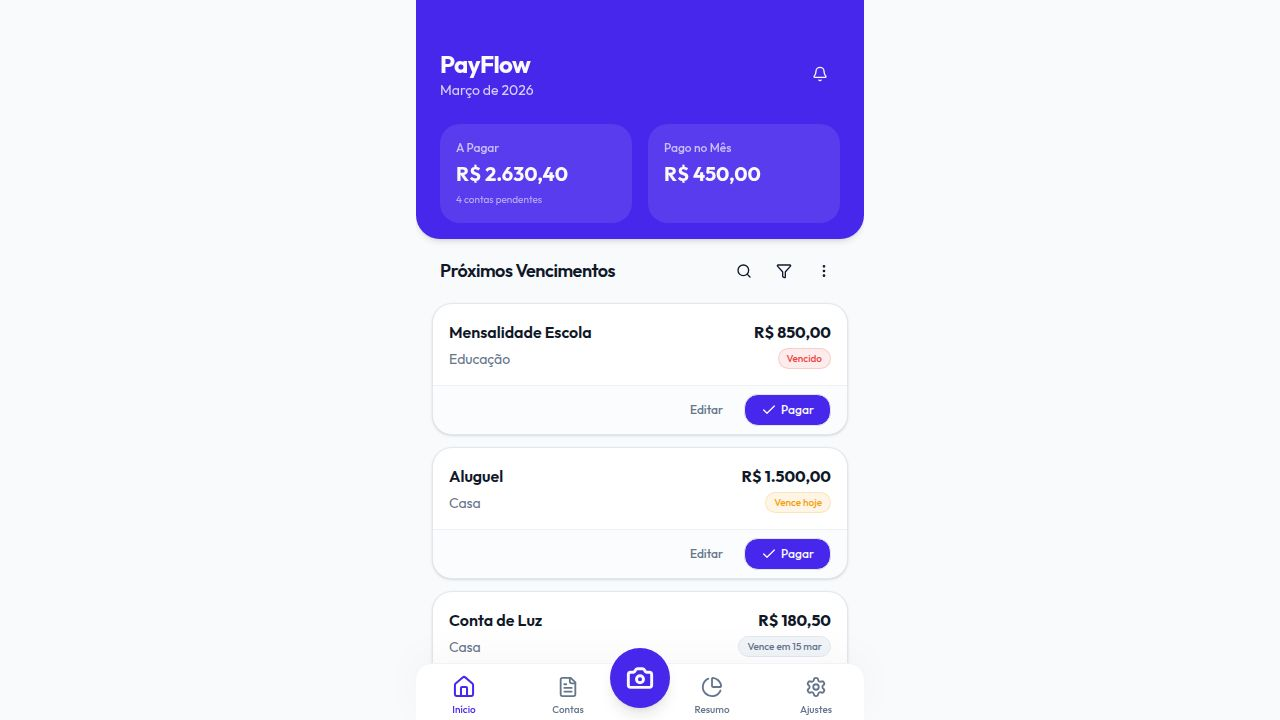
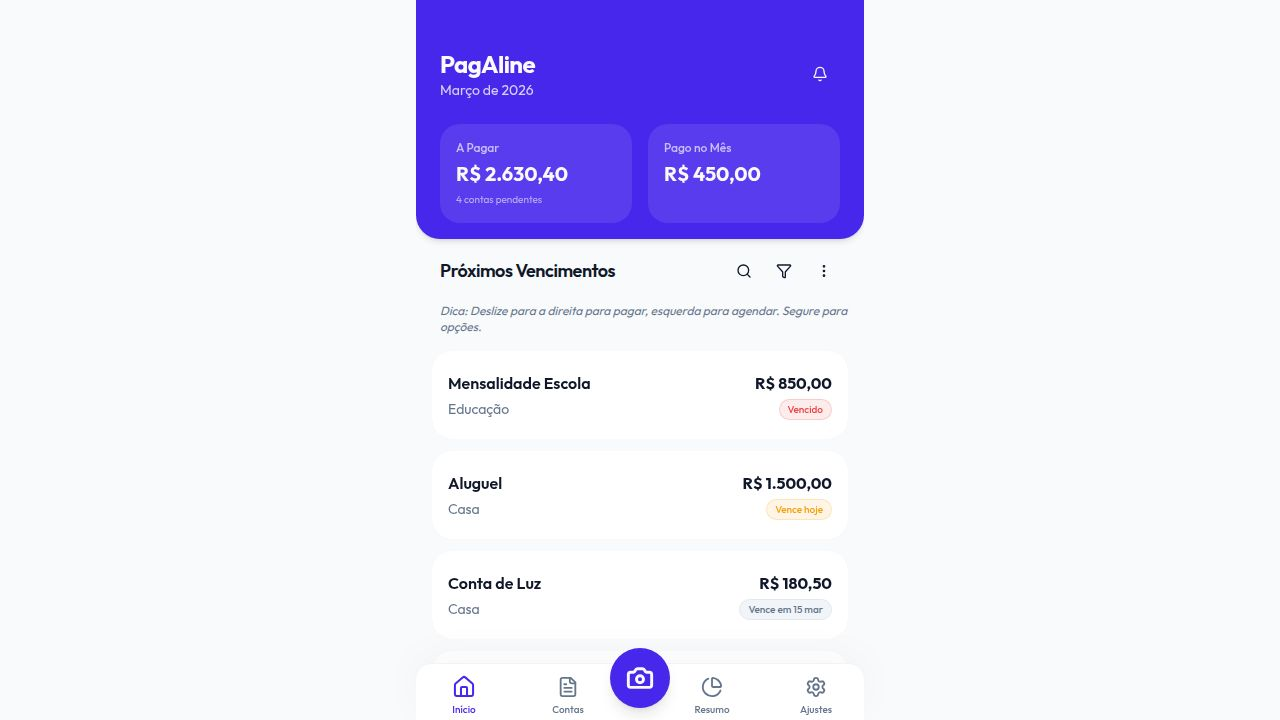
Add swipe gesture controls to the bills tab for easy management
Implement swipe-to-pay, swipe-to-schedule, and long-press for options functionality on the Bills tab, mirroring the home screen interactions.

Replit-Commit-Author: Agent
Replit-Commit-Session-Id: a7da171f-6661-4990-a457-7a83e7bc03da
Replit-Commit-Checkpoint-Type: full_checkpoint
Replit-Commit-Event-Id: 95634dd1-bc4b-4ab2-b35a-d443c6b9b4f6
Replit-Commit-Screenshot-Url: https://storage.googleapis.com/screenshot-production-us-central1/e67c398b-fc92-4870-afe2-380efe06a755/a7da171f-6661-4990-a457-7a83e7bc03da/GnGrj85
Replit-Helium-Checkpoint-Created: true

diff --git a/client/src/pages/Bills.tsx b/client/src/pages/Bills.tsx
@@ -1,18 +1,165 @@
-import { useState } from "react";
+import { useState, useRef } from "react";
 import { useStore, Bill } from "@/lib/store";
-import { format, isSameMonth, parseISO } from "date-fns";
+import { format, isSameMonth, isPast, isToday, isTomorrow } from "date-fns";
 import { ptBR } from "date-fns/locale";
 import { Card, CardContent } from "@/components/ui/card";
 import { Button } from "@/components/ui/button";
 import { Badge } from "@/components/ui/badge";
 import { Tabs, TabsContent, TabsList, TabsTrigger } from "@/components/ui/tabs";
-import { ChevronLeft, ChevronRight, Filter, Search } from "lucide-react";
+import { ChevronLeft, ChevronRight, Filter, Search, CheckCircle2, Calendar as CalendarIcon, Edit, Trash } from "lucide-react";
 import { cn } from "@/lib/utils";
+import { motion, useAnimation, PanInfo } from "framer-motion";
+import { useToast } from "@/hooks/use-toast";
+import { Drawer, DrawerContent, DrawerHeader, DrawerTitle, DrawerDescription, DrawerClose } from "@/components/ui/drawer";
+
+// Reusing the same formatter
+const formatCurrency = (value: number) => {
+  return new Intl.NumberFormat('pt-BR', { style: 'currency', currency: 'BRL' }).format(value);
+};
+
+const getDueDateLabel = (date: Date, status: string) => {
+  if (status === 'paid') return 'Pago';
+  if (isPast(date) && !isToday(date)) return 'Vencido';
+  if (isToday(date)) return 'Vence hoje';
+  if (isTomorrow(date)) return 'Vence amanhã';
+  return `Vence em ${format(date, "dd MMM", { locale: ptBR })}`;
+};
+
+function BillItemWithSwipe({ 
+  bill, 
+  onPay, 
+  onSchedule, 
+  onLongPress 
+}: { 
+  bill: Bill;
+  onPay: (id: string) => void;
+  onSchedule: (bill: Bill) => void;
+  onLongPress: (bill: Bill) => void;
+}) {
+  const controls = useAnimation();
+  const timerRef = useRef<NodeJS.Timeout | null>(null);
+  const [dragOffset, setDragOffset] = useState(0);
+
+  const handleTouchStart = () => {
+    timerRef.current = setTimeout(() => {
+      onLongPress(bill);
+    }, 2000);
+  };
+
+  const handleTouchEnd = () => {
+    if (timerRef.current) clearTimeout(timerRef.current);
+  };
+
+  const handleDragStart = () => {
+    if (timerRef.current) clearTimeout(timerRef.current);
+  };
+
+  const handleDrag = (e: any, info: PanInfo) => {
+    setDragOffset(info.offset.x);
+  };
+
+  const handleDragEnd = async (e: any, info: PanInfo) => {
+    const threshold = 100;
+    const velocity = info.velocity.x;
+    setDragOffset(0);
+    
+    if (info.offset.x > threshold || (info.offset.x > 30 && velocity > 500)) {
+      if (bill.status !== 'paid') {
+        controls.start({ x: 500, transition: { duration: 0.2 } }).then(() => {
+          onPay(bill.id);
+          controls.set({ x: 0 });
+        });
+      } else {
+        controls.start({ x: 0, transition: { type: "spring", stiffness: 300, damping: 25 } });
+      }
+    } else if (info.offset.x < -threshold || (info.offset.x < -30 && velocity < -500)) {
+      if (bill.status !== 'paid') {
+        onSchedule(bill);
+        controls.start({ x: 0, transition: { type: "spring", stiffness: 300, damping: 25 } });
+      } else {
+        controls.start({ x: 0, transition: { type: "spring", stiffness: 300, damping: 25 } });
+      }
+    } else {
+      controls.start({ x: 0, transition: { type: "spring", stiffness: 300, damping: 25 } });
+    }
+  };
+
+  const getStatusBadge = (bill: Bill) => {
+    if (bill.status === 'paid') {
+      return <Badge variant="outline" className="text-success border-success/30 bg-success/10">Pago</Badge>;
+    }
+    if (bill.status === 'overdue') {
+      return <Badge variant="outline" className="text-destructive border-destructive/30 bg-destructive/10">Vencido</Badge>;
+    }
+    return <Badge variant="outline" className="text-warning border-warning/30 bg-warning/10">Pendente</Badge>;
+  };
+
+  return (
+    <div className="relative rounded-xl overflow-hidden bg-muted mb-3">
+      {/* Background actions (Swipe) - Only show if not paid */}
+      {bill.status !== 'paid' && (
+        <div className="absolute inset-0 flex justify-between items-center px-6">
+          <div className={cn("flex items-center gap-2 font-medium transition-opacity", dragOffset > 40 ? "text-success opacity-100" : "text-muted-foreground opacity-50")}>
+            <CheckCircle2 size={22} />
+            <span className="text-sm">Pagar</span>
+          </div>
+          <div className={cn("flex items-center gap-2 font-medium transition-opacity", dragOffset < -40 ? "text-primary opacity-100" : "text-muted-foreground opacity-50")}>
+            <span className="text-sm">Agendar</span>
+            <CalendarIcon size={22} />
+          </div>
+        </div>
+      )}
+      
+      <motion.div
+        drag={bill.status !== 'paid' ? "x" : false}
+        dragConstraints={{ left: 0, right: 0 }}
+        dragElastic={0.4}
+        onDragStart={handleDragStart}
+        onDrag={handleDrag}
+        onDragEnd={handleDragEnd}
+        animate={controls}
+        onTouchStart={handleTouchStart}
+        onTouchEnd={handleTouchEnd}
+        onTouchCancel={handleTouchEnd}
+        onMouseDown={handleTouchStart}
+        onMouseUp={handleTouchEnd}
+        onMouseLeave={handleTouchEnd}
+        className="relative z-10 touch-pan-y"
+        whileTap={{ scale: 0.98 }}
+      >
+        <Card className="overflow-hidden border-0 shadow-sm">
+          <CardContent className="p-4 flex items-center justify-between">
+            <div className="flex-1 min-w-0 pr-4">
+              <h3 className="font-semibold text-base truncate mb-1">{bill.description}</h3>
+              <div className="flex items-center gap-2 text-xs text-muted-foreground">
+                <span>{bill.category}</span>
+                <span>•</span>
+                <span>Venc: {format(bill.dueDate, "dd/MM", { locale: ptBR })}</span>
+              </div>
+            </div>
+            <div className="flex flex-col items-end gap-2 shrink-0">
+              <span className="font-bold text-base">{formatCurrency(bill.amount)}</span>
+              {getStatusBadge(bill)}
+            </div>
+          </CardContent>
+        </Card>
+      </motion.div>
+    </div>
+  );
+}
 
 export default function Bills() {
   const bills = useStore((state) => state.bills);
+  const markAsPaid = useStore((state) => state.markAsPaid);
+  const deleteBill = useStore((state) => state.deleteBill);
+  const { toast } = useToast();
+  
   const [currentMonth, setCurrentMonth] = useState(new Date());
   const [activeTab, setActiveTab] = useState("all");
+  
+  // Drawer states
+  const [activeBill, setActiveBill] = useState<Bill | null>(null);
+  const [drawerType, setDrawerType] = useState<'schedule' | 'options' | null>(null);
 
   const prevMonth = () => {
     setCurrentMonth(new Date(currentMonth.getFullYear(), currentMonth.getMonth() - 1, 1));
@@ -35,18 +182,38 @@ export default function Bills() {
     return true;
   }).sort((a, b) => a.dueDate.getTime() - b.dueDate.getTime());
 
-  const formatCurrency = (value: number) => {
-    return new Intl.NumberFormat('pt-BR', { style: 'currency', currency: 'BRL' }).format(value);
+  const handlePaySingle = (id: string) => {
+    markAsPaid(id);
+    toast({
+      title: "Conta paga",
+      description: "A conta foi marcada como paga e atualizada no histórico.",
+    });
   };
 
-  const getStatusBadge = (bill: Bill) => {
-    if (bill.status === 'paid') {
-      return <Badge variant="outline" className="text-success border-success/30 bg-success/10">Pago</Badge>;
+  const handleSchedule = (bill: Bill) => {
+    setActiveBill(bill);
+    setDrawerType('schedule');
+  };
+
+  const handleLongPress = (bill: Bill) => {
+    setActiveBill(bill);
+    setDrawerType('options');
+    // Trigger haptic feedback if available
+    if (window.navigator && window.navigator.vibrate) {
+      window.navigator.vibrate(50);
     }
-    if (bill.status === 'overdue') {
-      return <Badge variant="outline" className="text-destructive border-destructive/30 bg-destructive/10">Vencido</Badge>;
+  };
+
+  const handleDelete = () => {
+    if (activeBill) {
+      deleteBill(activeBill.id);
+      toast({
+        title: "Conta excluída",
+        description: "A conta foi removida com sucesso.",
+        variant: "destructive"
+      });
+      setDrawerType(null);
     }
-    return <Badge variant="outline" className="text-warning border-warning/30 bg-warning/10">Pendente</Badge>;
   };
 
   return (
@@ -97,28 +264,93 @@ export default function Bills() {
             <p className="text-sm mt-1">Nenhum registro para este período ou filtro.</p>
           </div>
         ) : (
-          <div className="space-y-3">
+          <div className="space-y-1">
+            {activeTab !== 'paid' && filteredBills.some(b => b.status !== 'paid') && (
+              <p className="text-xs text-muted-foreground mb-4 ml-2 italic">Dica: Deslize para a direita para pagar, esquerda para agendar. Segure para opções.</p>
+            )}
             {filteredBills.map((bill) => (
-              <Card key={bill.id} className="overflow-hidden">
-                <CardContent className="p-4 flex items-center justify-between">
-                  <div className="flex-1 min-w-0 pr-4">
-                    <h3 className="font-semibold text-base truncate mb-1">{bill.description}</h3>
-                    <div className="flex items-center gap-2 text-xs text-muted-foreground">
-                      <span>{bill.category}</span>
-                      <span>•</span>
-                      <span>Venc: {format(bill.dueDate, "dd/MM", { locale: ptBR })}</span>
-                    </div>
-                  </div>
-                  <div className="flex flex-col items-end gap-2 shrink-0">
-                    <span className="font-bold text-base">{formatCurrency(bill.amount)}</span>
-                    {getStatusBadge(bill)}
-                  </div>
-                </CardContent>
-              </Card>
+              <BillItemWithSwipe 
+                key={bill.id} 
+                bill={bill}
+                onPay={handlePaySingle}
+                onSchedule={handleSchedule}
+                onLongPress={handleLongPress}
+              />
             ))}
           </div>
         )}
       </div>
+
+      {/* Drawers */}
+      <Drawer open={drawerType === 'options'} onOpenChange={(open) => !open && setDrawerType(null)}>
+        <DrawerContent>
+          <DrawerHeader>
+            <DrawerTitle>{activeBill?.description}</DrawerTitle>
+            <DrawerDescription>Valor: {activeBill && formatCurrency(activeBill.amount)}</DrawerDescription>
+          </DrawerHeader>
+          <div className="p-4 flex flex-col gap-2">
+            {activeBill?.status !== 'paid' && (
+              <>
+                <Button variant="outline" className="justify-start text-base py-6" onClick={() => {
+                  handlePaySingle(activeBill!.id);
+                  setDrawerType(null);
+                }}>
+                  <CheckCircle2 className="mr-3 text-success" size={20} />
+                  Marcar como Paga
+                </Button>
+                <Button variant="outline" className="justify-start text-base py-6" onClick={() => {
+                  setDrawerType('schedule');
+                }}>
+                  <CalendarIcon className="mr-3 text-primary" size={20} />
+                  Agendar Pagamento
+                </Button>
+              </>
+            )}
+            <Button variant="outline" className="justify-start text-base py-6" onClick={() => {
+              // Edit mode (mock)
+              setDrawerType(null);
+            }}>
+              <Edit className="mr-3 text-muted-foreground" size={20} />
+              Editar Conta
+            </Button>
+            <Button variant="outline" className="justify-start text-base py-6 text-destructive hover:text-destructive hover:bg-destructive/10 border-destructive/20" onClick={handleDelete}>
+              <Trash className="mr-3" size={20} />
+              Excluir Conta
+            </Button>
+          </div>
+        </DrawerContent>
+      </Drawer>
+
+      <Drawer open={drawerType === 'schedule'} onOpenChange={(open) => !open && setDrawerType(null)}>
+        <DrawerContent>
+          <DrawerHeader>
+            <DrawerTitle>Agendar Pagamento</DrawerTitle>
+            <DrawerDescription>{activeBill?.description}</DrawerDescription>
+          </DrawerHeader>
+          <div className="p-4 space-y-4">
+            <div className="space-y-2">
+              <label className="text-sm font-medium">Data do Agendamento</label>
+              <input 
+                type="date" 
+                className="w-full p-3 bg-muted rounded-xl border-none focus:ring-2 focus:ring-primary/50"
+                defaultValue={activeBill ? new Date(activeBill.dueDate).toISOString().split('T')[0] : ''}
+              />
+            </div>
+            <Button className="w-full py-6 text-lg rounded-2xl" onClick={() => {
+              toast({
+                title: "Pagamento agendado",
+                description: "O pagamento foi agendado para a data selecionada.",
+              });
+              setDrawerType(null);
+            }}>
+              Confirmar Agendamento
+            </Button>
+            <DrawerClose asChild>
+              <Button variant="ghost" className="w-full">Cancelar</Button>
+            </DrawerClose>
+          </div>
+        </DrawerContent>
+      </Drawer>
     </div>
   );
 }
